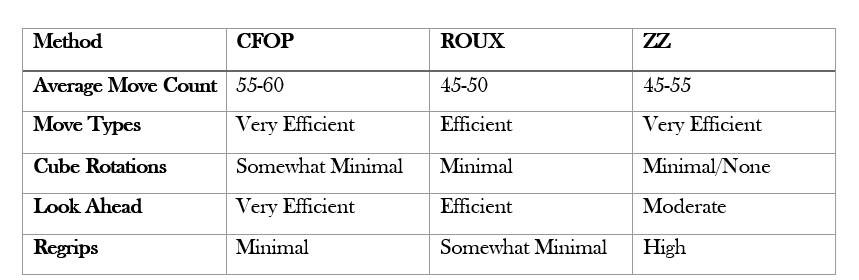
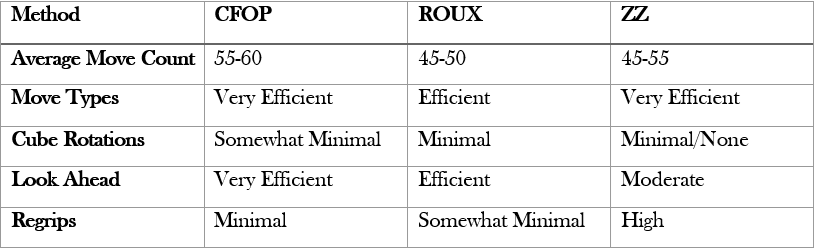
Change image styling

diff --git a/style.css b/style.css
@@ -68,8 +68,8 @@ tr:nth-child(even) {
 
 .figure {
   display: block;
-  margin: 0 auto;
-  width: 100%;
+  margin: 0;
+  width: 85%;
 }
 
 .figure-citation {
@@ -77,6 +77,7 @@ tr:nth-child(even) {
   text-align: center;
   margin-top: 5px;
   display: block;
+  width: 85%;
 }
 
 .in-text-citation {
